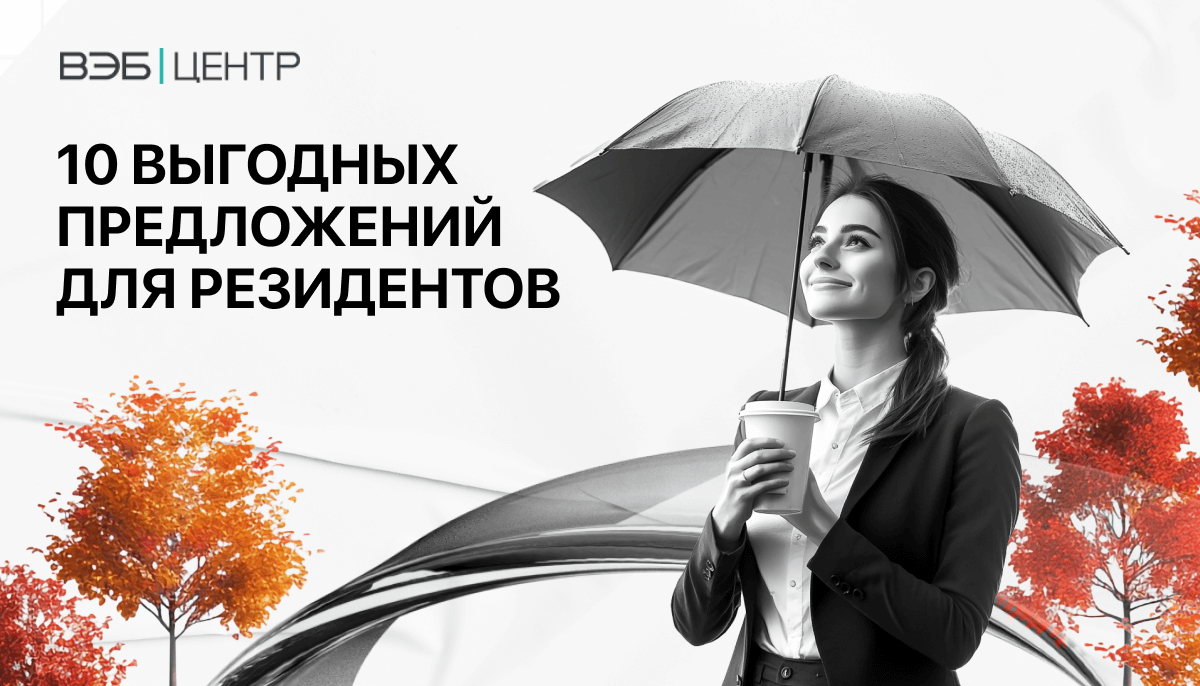
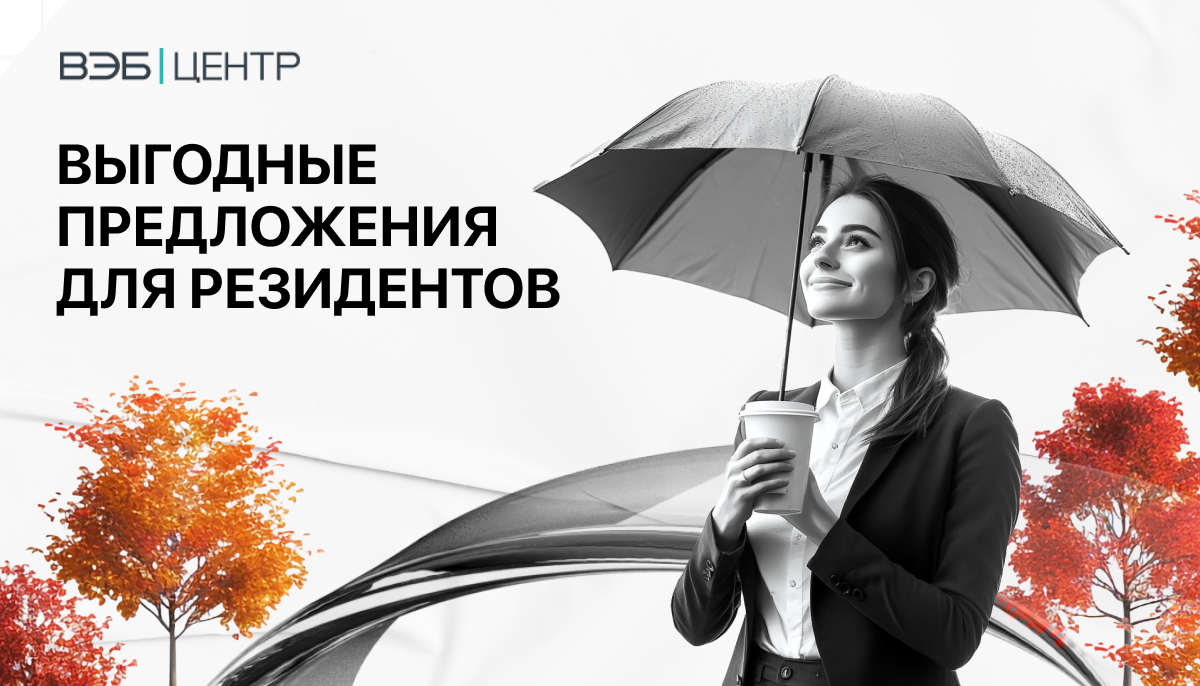
change veb-center-25

Changed region(s): [[0.0308, 0.1837, 0.4317, 0.3673]]

diff --git a/veb-center-25/Выгодные предложения для резидентов.html b/veb-center-25/Выгодные предложения для резидентов.html
@@ -102,7 +102,7 @@
                                         <tbody>
                                         <tr>
                                             <td style="width:600px;">
-                                                <img alt="10 выгодных предложений для резидентов" height="auto" src="https://cp.unisender.com/ru/user_file?resource=images&user_id=5608985&name=vc-25-hero.png" style="border:0;display:block;outline:none;text-decoration:none;height:auto;width:100%;font-size:13px;" width="600" />
+                                                <img alt="Выгодные предложения для резидентов" height="auto" src="https://cp.unisender.com/ru/user_file?resource=images&user_id=5608985&name=vc-25-hero.png" style="border:0;display:block;outline:none;text-decoration:none;height:auto;width:100%;font-size:13px;" width="600" />
                                             </td>
                                         </tr>
                                         </tbody>
